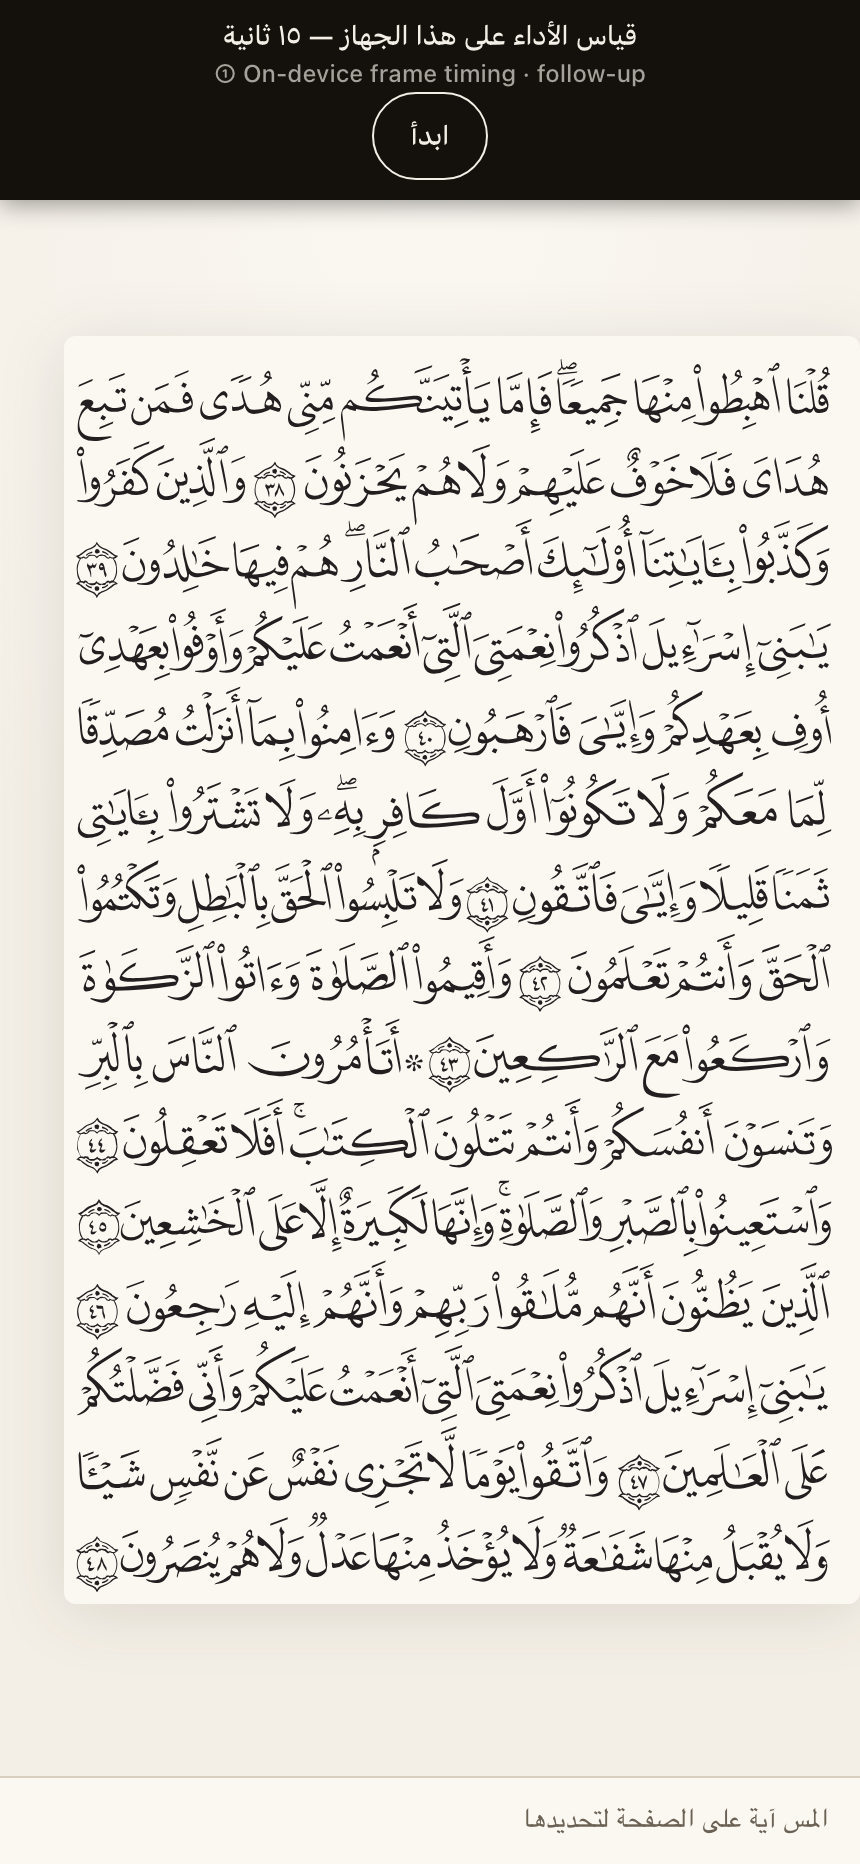
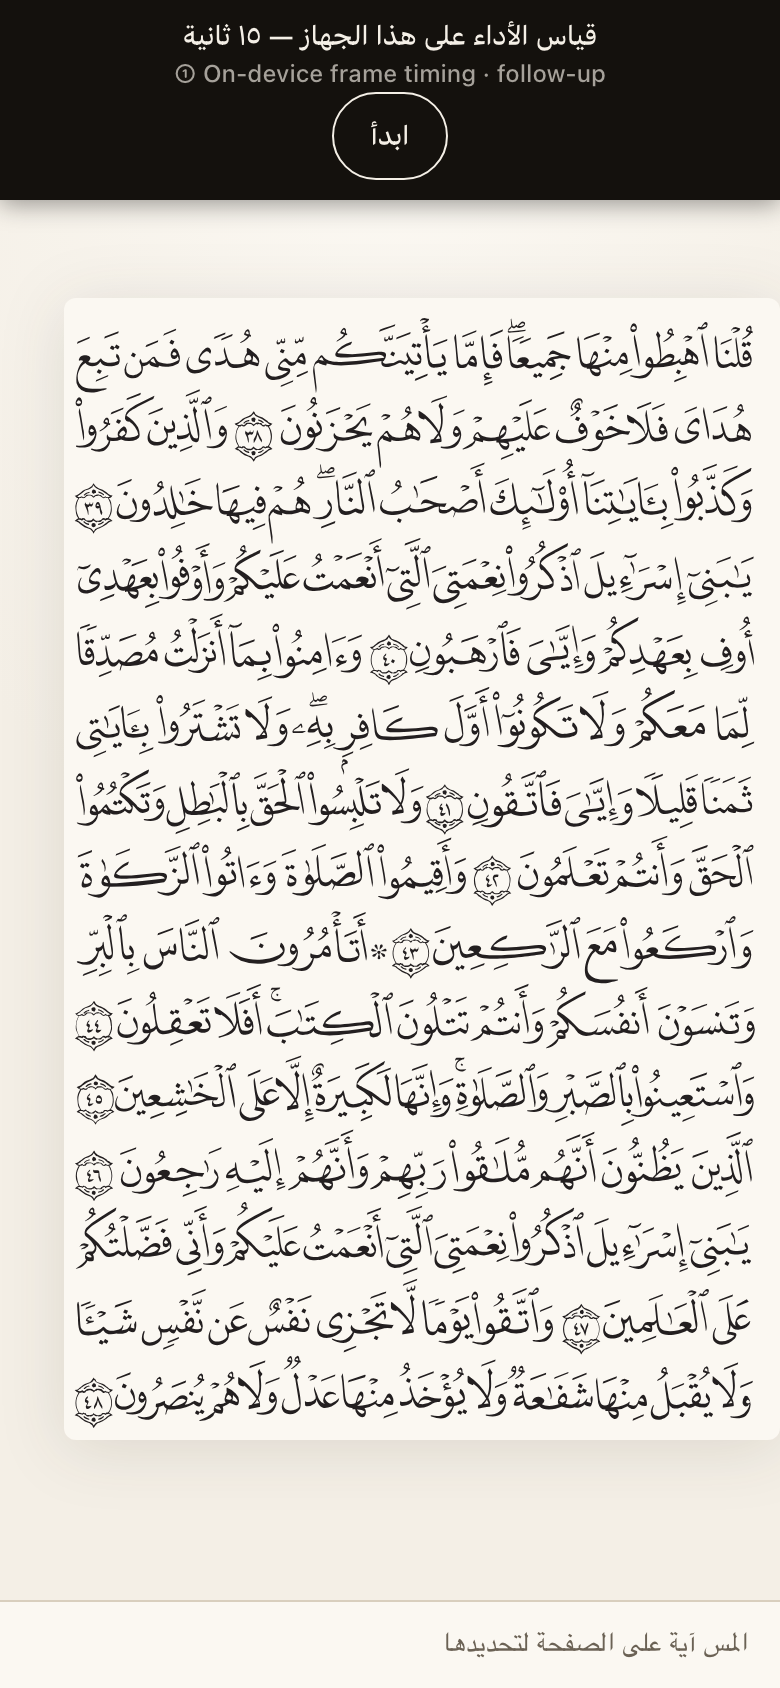
fix(web): the chrome fits a phone, and stops stealing the stage's height
The header was 430 CSS px wide intrinsically, so on every phone narrower
than an iPhone 15 Pro Max it did not fit. `.chrome` is a no-wrap flex
row, so what does not fit is not clipped — it is pushed off the start
edge, which in RTL is the left one. The ⓘ sat at x=0 half off screen and
the whole document grew a horizontal scroll, so the mushaf could be
panned sideways by accident. Six loops shipped that way.

The fix spends air before content, and content before controls: phones
already got the compact spacing scale, and below 400 px the row now also
drops to the tightest gap and hides the *word* «صفحة» — clipped, not
`display: none`, so the accessible name is untouched and the committed
aria snapshots still read «صفحة 7». The tajweed pill stacks its label
over its badge instead of setting them side by side, which is what was
actually spending the width. Measured at 320 px with the worst number
the mushaf has, page 604: 303 px intrinsic against 320 available. The
gap change is what bought that; without it the margin was 0.9 px, which
is a coincidence and not a margin.

The install button is gone rather than made to fit. OfflineNotice already
fires the same `promptInstall()` with a reason and a dismiss; a second
entry point said nothing the first one did not say better, and the row
had no width for it.

Ten golden baselines and nine guide screenshots are regenerated here, and
that is the part worth reading twice. The 82 px header was not a design —
[…]

Changed region(s): [[0.0615, 0.1848, 0.9846, 0.8626], [0.0, 0.0, 1.0, 0.1232], [0.5846, 0.955, 0.9538, 0.9858]]

diff --git a/apps/web/src/App.module.css b/apps/web/src/App.module.css
@@ -5,32 +5,74 @@
   background: var(--paper);
 }
 
+/* The navigation row, and the one row in the app that cannot be allowed to
+   overflow: it is `display: flex` with no wrap, so anything that does not fit
+   is not clipped but pushed off the *start* edge — in RTL, off the left — and
+   the whole document grows a horizontal scroll. That is what happened for six
+   loops: the intrinsic width was 430px, so every phone narrower than an iPhone
+   15 Pro Max got a chrome with the skin switch half off screen and a mushaf
+   that could be panned sideways by accident.
+
+   Two rules keep it honest, and neither of them may touch the row's *height* —
+   the golden baselines are element shots of the page SVG, and the stage's
+   height is whatever the chrome leaves it (see `.brand`).
+
+   1. Spacing is the first thing to go, not content. Phones get the compact
+      scale; the roomy one is for tablets and desktops, where there is width to
+      spend.
+   2. Below 400px the row gives up its gaps as well, and drops the *word*
+      «صفحة» (visually — `.pageLabel` stays in the accessibility tree), because
+      at that width the number is unambiguous and the alternative is dropping a
+      control.
+
+   Measured after, at the ≤400px settings: 279px intrinsic, and 303px in the
+   worst case the mushaf has — page 604, the only three-digit number this field
+   ever shows. That is 17px of slack on the narrowest phone still in use (320px,
+   SE 1st gen); with the ≤400 gap left alone it was 0.9px, which is a
+   coincidence rather than a margin. e2e/chrome-fit.spec.ts holds the line from
+   320 to 430, page 604 included, in both engines. */
 .chrome {
   display: flex;
   align-items: center;
-  gap: var(--space-4);
-  padding: var(--space-3) var(--space-4);
+  gap: var(--space-2);
+  padding: var(--space-3) var(--space-3);
   padding-block-start: max(var(--space-3), env(safe-area-inset-top));
   border-block-end: 1px solid var(--hairline);
   background: var(--paper);
 }
 
+@media (min-width: 481px) {
+  .chrome {
+    gap: var(--space-4);
+    padding-inline: var(--space-4);
+  }
+}
+
 /* A button that has to keep looking like a wordmark: it opens the colophon, so
    it needs a target and a focus ring, but any hover tint or border would turn
    the app's name into a control competing with ⌖ and ▤ for attention. The
-   affordance is a focus ring and nothing else — and the box must be the one
-   the <div> here occupied, to the pixel. That is a hard requirement, not tidiness:
-   the golden baselines are element shots of the page SVG, whose crop lands over
-   the chrome, so a wordmark a few pixels off re-photographs every page.
-   `min-inline-size: min-content` is what buys it. A flex item's automatic
-   minimum size keeps a <div> from shrinking below its widest unbreakable child
-   — here the 53px wordmark — but a <button> is exempt from that rule, so it
-   shrank to the tagline's wrap width (44px) and let حفظ overflow, moving every
-   control in the row. This restores the div's floor by naming it.
-   No `min-block-size`: the brand is already the tallest thing in the header, so
-   a touch floor would only grow the header and take those pixels off the stage.
-   Refusing to spend stage height is the whole reason this opener is the wordmark
-   and not a fifth button. */
+   affordance is a focus ring and nothing else.
+
+   `min-inline-size: min-content` is what keeps it the box the <div> here once
+   occupied. A flex item's automatic minimum size keeps a <div> from shrinking
+   below its widest unbreakable child — here the 53px wordmark — but a <button>
+   is exempt from that rule, so it shrank to the tagline's wrap width (44px) and
+   let حفظ overflow, moving every control in the row.
+
+   That is a width rule with a *height* consequence, and the height is the half
+   that is easy to lose. This box is the tallest thing in the header, so it sets
+   the header's height, and the stage gets what is left — and the golden
+   baselines are element shots of the stage. Squeeze it narrower than
+   «مِلاحة للحُفّاظ» and the tagline wraps to a second line, the header grows
+   13px, and all ten baselines re-photograph. That is not hypothetical: it is
+   what the 430px chrome was doing on every phone until the row was made to fit,
+   and it is why those baselines were regenerated with this change rather than
+   preserved. e2e/chrome-fit.spec.ts now asserts the header is the same height
+   at every phone width, so the next squeeze fails a test instead of a diff.
+
+   No `min-block-size` either: a touch floor here would only grow the header and
+   take those pixels off the stage. Refusing to spend stage height is the whole
+   reason this opener is the wordmark and not a fifth button. */
 .brand {
   display: flex;
   flex-direction: column;
@@ -74,6 +116,31 @@
 
 .pageLabel {
   font-size: var(--text-sm);
+}
+
+/* Small phones. Air first: the gap drops to the tightest step, which costs the
+   row nothing a reader can name and buys the four-gap row 16px — the difference
+   between fitting page 604 on a 320px screen by 0.9px and fitting it with room
+   to spare. Then the word «صفحة» goes to the screen reader only — clipped, not
+   `display: none`, so the accessible name is untouched and the aria snapshots
+   in e2e/__aria__ still read «صفحة 7». The number keeps `.pageNum`'s size, so
+   what is lost is a label a reader of a mushaf does not need next to a number
+   that is already the only one in the chrome. */
+@media (max-width: 400px) {
+  .chrome {
+    gap: var(--space-1);
+    padding-inline: var(--space-2);
+  }
+
+  .pageLabel {
+    position: absolute;
+    width: 1px;
+    height: 1px;
+    margin: -1px;
+    overflow: hidden;
+    clip: rect(0, 0, 0, 0);
+    white-space: nowrap;
+  }
 }
 
 .pageNum {

diff --git a/apps/web/e2e/chrome-fit.spec.ts b/apps/web/e2e/chrome-fit.spec.ts
@@ -1,0 +1,110 @@
+import { test, expect, type Page } from "@playwright/test";
+
+/*
+ * The chrome fits the phone — at every width a phone actually has.
+ *
+ * This exists because for six loops it did not. `.chrome` is a flex row with no
+ * wrap: anything that does not fit is not clipped, it is pushed off the *start*
+ * edge — in RTL, off the left — and the document grows a horizontal scrollbar.
+ * The intrinsic width was a flat 430 CSS px, so on a 390 px iPhone the ⓘ was
+ * half off screen, the mushaf could be panned sideways by accident, and taps
+ * inside sheets landed on the wrong element because the page was offset.
+ *
+ * Two assertions, and the second is the one that is easy to lose:
+ *
+ *   1. Nothing overflows, at 320 → 430. 320 is the narrowest phone still in the
+ *      wild (SE 1st gen); 430 is the widest (15 Pro Max). Both the header itself
+ *      and the document are checked — a row can fit its own box while pushing
+ *      the <html> element wider, and only the document check catches that.
+ *   2. The header's *height* is the same at every one of those widths. The
+ *      stage gets whatever height the chrome leaves it, and the golden
+ *      baselines are element shots of the stage. A responsive rule that fixes
+ *      the width by letting something wrap costs the reader a strip of mushaf
+ *      and re-photographs all ten baselines — silently, since no width
+ *      assertion here would notice.
+ *
+ * Widths are set with `setViewportSize` on the project's own device, so this
+ * runs once in WebKit and once in Chromium. That is deliberate: fitting is
+ * decided by text metrics, and the two engines do not measure Arabic
+ * identically — a change can fit on one and overflow on the other.
+ */
+
+/** Phone widths, narrowest first. */
+const WIDTHS = [320, 360, 375, 390, 412, 430] as const;
+
+/** Header box + the document's own overflow, in one round trip. */
+async function measure(page: Page) {
+  return page.evaluate(() => {
+    const header = document.querySelector("header")!;
+    return {
+      // `window.innerWidth` is not usable here: under mobile emulation it
+      // reports the *visual* viewport, which an overflowing document widens.
+      // `clientWidth` on a block-level header tracks the layout viewport.
+      headerScroll: header.scrollWidth,
+      headerClient: header.clientWidth,
+      headerHeight: Math.round(header.getBoundingClientRect().height),
+      docScroll: document.documentElement.scrollWidth,
+      docClient: document.documentElement.clientWidth,
+    };
+  });
+}
+
+test.describe("Hifth · the chrome fits a phone", () => {
+  test("no horizontal overflow, and a constant header height, from 320 to 430", async ({
+    page,
+  }) => {
+    await page.goto("/#/hafs-kfqc/2:47");
+    await expect(page.locator("main svg[role='group']").first()).toBeVisible();
+
+    const heights = new Map<number, number>();
+
+    for (const width of WIDTHS) {
+      await page.setViewportSize({ width, height: 844 });
+      // One frame for the media queries to apply before measuring.
+      await expect
+        .poll(async () => (await measure(page)).headerClient, { timeout: 5_000 })
+        .toBe(width);
+
+      const m = await measure(page);
+      expect(m.headerScroll, `header overflows its own box at ${width}px`).toBeLessThanOrEqual(
+        m.headerClient,
+      );
+      expect(m.docScroll, `the document scrolls sideways at ${width}px`).toBeLessThanOrEqual(
+        m.docClient,
+      );
+      heights.set(width, m.headerHeight);
+    }
+
+    // Every width, one height. Reported as a map so a failure names the width
+    // that moved rather than just "expected 69, got 82".
+    const distinct = new Set(heights.values());
+    expect(Object.fromEntries(heights), "header height varies by viewport width").toEqual(
+      Object.fromEntries([...heights.keys()].map((w) => [w, [...distinct][0]])),
+    );
+  });
+
+  test("still fits with the widest page number the mushaf has", async ({ page }) => {
+    await page.goto("/#/hafs-kfqc/2:47");
+    await expect(page.locator("main svg[role='group']").first()).toBeVisible();
+
+    // The corpus vendored today is three pages, so the header can only ever be
+    // driven to a one-digit number by navigation. The worst case is page 604 —
+    // the last page of the mushaf, and the widest that field ever gets — so the
+    // text is set directly. Nothing else about the row changes: this is the
+    // same span, the same font, the same flex item, two glyphs wider.
+    await page.locator("header span.numeric").evaluate((el) => {
+      el.textContent = "604";
+    });
+
+    await page.setViewportSize({ width: 320, height: 844 });
+    await expect.poll(async () => (await measure(page)).headerClient, { timeout: 5_000 }).toBe(320);
+
+    const m = await measure(page);
+    expect(m.headerScroll, "page 604 overflows the header at 320px").toBeLessThanOrEqual(
+      m.headerClient,
+    );
+    expect(m.docScroll, "page 604 makes the document scroll at 320px").toBeLessThanOrEqual(
+      m.docClient,
+    );
+  });
+});

diff --git a/apps/web/src/App.tsx b/apps/web/src/App.tsx
@@ -39,7 +39,6 @@ import { HopPopover } from "./components/HopPopover";
 import { HighlightMenu } from "./components/HighlightMenu";
 import { TrailBeads, type TrailBead } from "./components/TrailBeads";
 import { ShareSheet } from "./components/ShareSheet";
-import { InstallButton } from "./components/InstallButton";
 import { OfflineNotice } from "./components/OfflineNotice";
 import { Jumper } from "./components/Jumper";
 import { EditionPicker } from "./components/EditionPicker";
@@ -685,7 +684,7 @@ export function App(): JSX.Element {
         {/* The wordmark is the colophon's opener. Publishing this app conveys
             it (GPL §6), so the source offer and the four source credits have to
             be reachable from the running page — and the chrome already carries
-            ⌖, ▤, the skin switch and the install prompt. A fifth button would
+            ⌖, ▤, the skin switch and its legend. A fifth button would
             take thumb-width from navigation to say "about"; the wordmark was
             decoration, and "about" is what a wordmark is always allowed to be. */}
         <button
@@ -732,7 +731,14 @@ export function App(): JSX.Element {
           onChange={setSkin}
           onOpenLegend={() => setLegendOpen(true)}
         />
-        <InstallButton />
+        {/* No install button here. There used to be one, and it was a ~126px
+            text pill in a row that could not afford 126px on any phone — on
+            Android, the one platform where it ever rendered, it was the single
+            largest thing in the chrome. It also said nothing OfflineNotice does
+            not already say better: the `install-prompt` notice fires the same
+            `promptInstall()`, gives the reason (the pages you visited stay on
+            your device), and can be dismissed. A permanent navigation row is
+            the wrong lane for a promo that disappears the moment it is used. */}
       </header>
 
       {/* Offline durability, when there is something honest to say about it:

diff --git a/apps/web/playwright.config.ts b/apps/web/playwright.config.ts
@@ -108,20 +108,20 @@ export default defineConfig({
           // coordinates and lands somewhere else. Touch stays on; it is what the
           // app branches on.
           //
-          // 430×932, not 390×844, and that number is not a preference. The
-          // header's intrinsic width is 430 CSS px — wordmark, page number, ⌖, ▤
-          // and the tajweed pill, none of which shrink — so at 390 the document
-          // is 40 px wider than the viewport and every full-viewport shot comes
-          // out as a mushaf sliced down both edges. That is a real defect on a
-          // real phone and it is tracked as one; what it is not is something to
+          // 390×844, the same viewport the goldens use. It was 430 for six
+          // loops for a bad reason that is now fixed: the header's intrinsic
+          // width was a flat 430 CSS px, so at 390 the document was 40 px wider
+          // than the viewport and every full-viewport shot came out as a mushaf
+          // sliced down both edges — a real defect, but not something to
           // photograph, because a picture of it teaches the reader that a
-          // half-cut page is the expected screen. 430 is a phone the app fits on
-          // (iPhone 15 Pro Max). Drop this back to 390 when the header fits.
+          // half-cut page is the expected screen. The chrome now fits from 320
+          // up (e2e/chrome-fit.spec.ts), so the runbook can be photographed on
+          // the phone most readers are holding.
           name: "shots",
           testMatch: /shots\.spec\.ts/,
           use: {
             browserName: "chromium",
-            viewport: { width: 430, height: 932 },
+            viewport: { width: 390, height: 844 },
             deviceScaleFactor: 2,
             hasTouch: true,
           },

diff --git a/apps/web/src/components/SkinToggle.module.css b/apps/web/src/components/SkinToggle.module.css
@@ -11,18 +11,30 @@
   gap: 2px;
 }
 
+/*
+ * Label over badge, not label beside badge. Side by side the two words made a
+ * 113px pill — wider than the wordmark and the page number put together, and
+ * the single reason the chrome could not fit a 390px phone. Stacked they cost
+ * the width of the longer word (~64px) and nothing in height: two lines at
+ * `line-height: 1.15` come to 29px inside a control whose floor is already the
+ * 44px touch target. Nothing is dropped and nothing is hidden behind a tap —
+ * the badge is still on the control, in both states, which is the requirement.
+ */
 .toggle {
   display: flex;
+  flex-direction: column;
   align-items: center;
-  gap: var(--space-1);
+  justify-content: center;
   min-block-size: var(--touch-min);
-  padding-inline: var(--space-3);
+  min-inline-size: var(--touch-min);
+  padding-inline: var(--space-2);
   border: 1px solid var(--hairline);
   border-radius: var(--radius-pill);
   background: var(--paper-raised);
   color: var(--ink-soft);
   font: inherit;
   font-size: var(--text-sm);
+  line-height: 1.15;
   cursor: pointer;
 }
 
@@ -48,12 +60,21 @@
  * with the control rather than living in a settings screen nobody opens.
  */
 .beta {
-  padding-inline: var(--space-2);
+  padding-inline: var(--space-1);
   border-radius: var(--radius-pill);
   background: var(--highlight-wash);
   color: var(--ink);
   font-size: var(--text-xs);
   letter-spacing: 0.02em;
+}
+
+/* Small phones: the pill gives up its side padding before anything gives up a
+   word. It keeps `min-inline-size: var(--touch-min)`, so the target never
+   shrinks — only the air around the text does. */
+@media (max-width: 400px) {
+  .toggle {
+    padding-inline: var(--space-1);
+  }
 }
 
 .legendBtn {

diff --git a/apps/web/e2e/shots.spec.ts b/apps/web/e2e/shots.spec.ts
@@ -108,7 +108,10 @@ async function cropAround(page: Page, target: Locator, id: string, pad: number):
   await target.scrollIntoViewIfNeeded();
   const box = await target.boundingBox();
   expect(box, `${id}: nothing to photograph`).not.toBeNull();
-  const vp = page.viewportSize() ?? { width: 430, height: 932 };
+  // Mirrors the `shots` project's viewport (playwright.config.ts). It is only a
+  // fallback for a headed run with no viewport set, but a stale one would clamp
+  // clips to a screen nobody is using and truncate the pictures silently.
+  const vp = page.viewportSize() ?? { width: 390, height: 844 };
   const x = Math.max(0, box!.x - pad);
   const y = Math.max(0, box!.y - pad);
   const width = Math.min(vp.width - x, box!.width + pad * 2);

diff --git a/apps/web/src/components/Colophon.tsx b/apps/web/src/components/Colophon.tsx
@@ -96,7 +96,7 @@ const CREDITS: readonly Credit[] = [
  * whose work they are holding without cloning anything.
  *
  * Opened from the wordmark rather than a fifth header button: the chrome
- * already carries ⌖, ▤, the skin switch and the install prompt, and on a phone
+ * already carries ⌖, ▤, the skin switch and its legend, and on a phone
  * one more control would compete with navigation for the thumb. The wordmark
  * was decoration; "about" is the one thing a wordmark is always allowed to be.
  *

diff --git a/docs/PLAN.md b/docs/PLAN.md
@@ -120,7 +120,7 @@ ends by updating this section and writing `docs/decisions/loop-<N>.md`.**
    rather than at a branch that moves under the reader; with no commit to name it degrades
    to the repository root instead of minting a link to nothing. It surfaces in
    [`Colophon.tsx`](../apps/web/src/components/Colophon.tsx), opened from the wordmark —
-   the chrome already carries ⌖, ▤, the skin switch and the install prompt, and a fifth
+   the chrome already carries ⌖, ▤, the skin switch and its legend, and a fifth
    control would cost stage height on a phone. The same sheet finally pays the three
    attributions the vendored data has been owed since Loop 4a (corpus.quran.com's mandatory
    link, quran-tajweed's CC BY, the mutashabihat licence's "mention in your app"), which is
